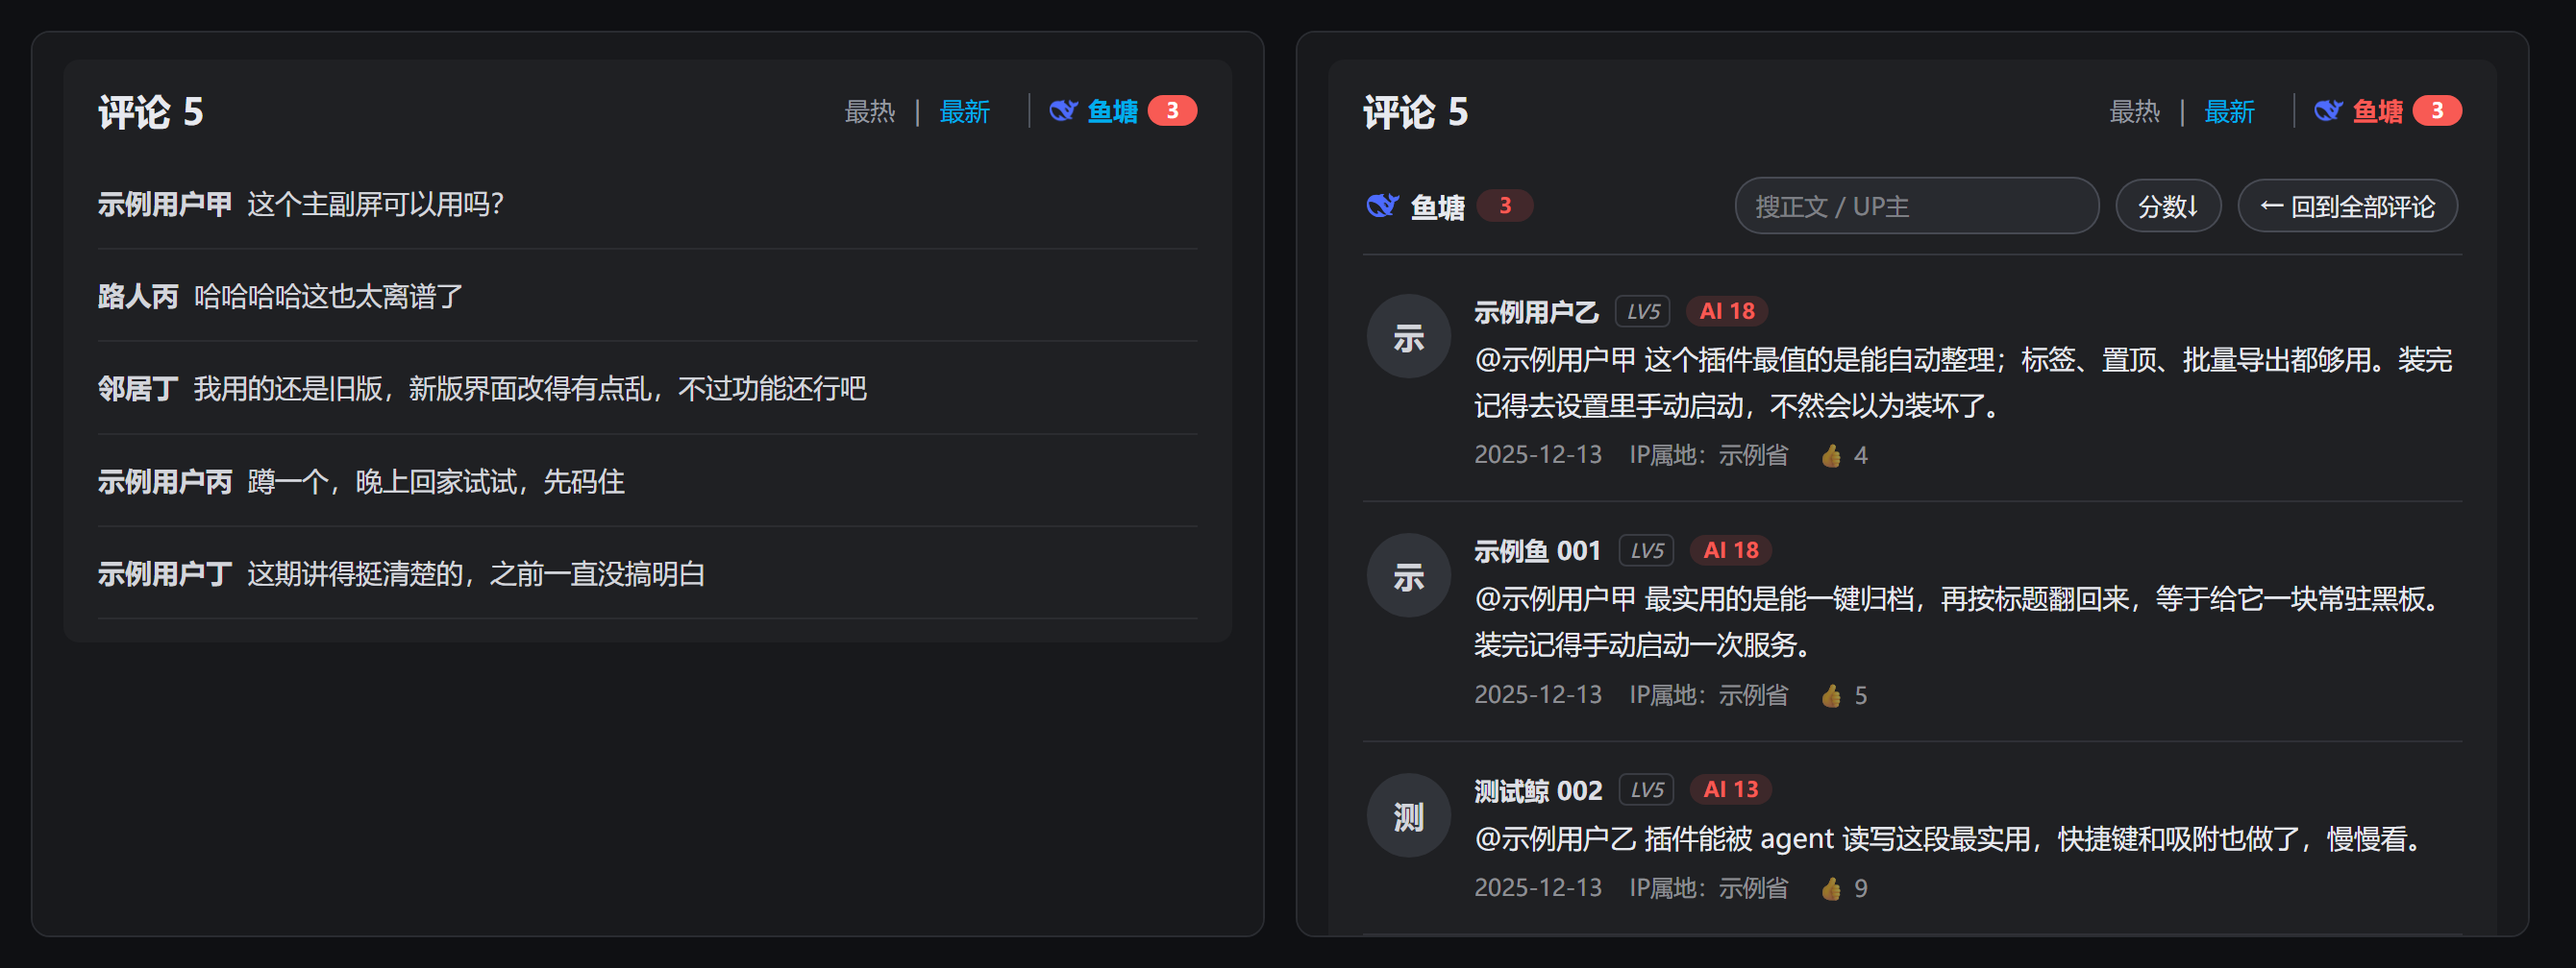
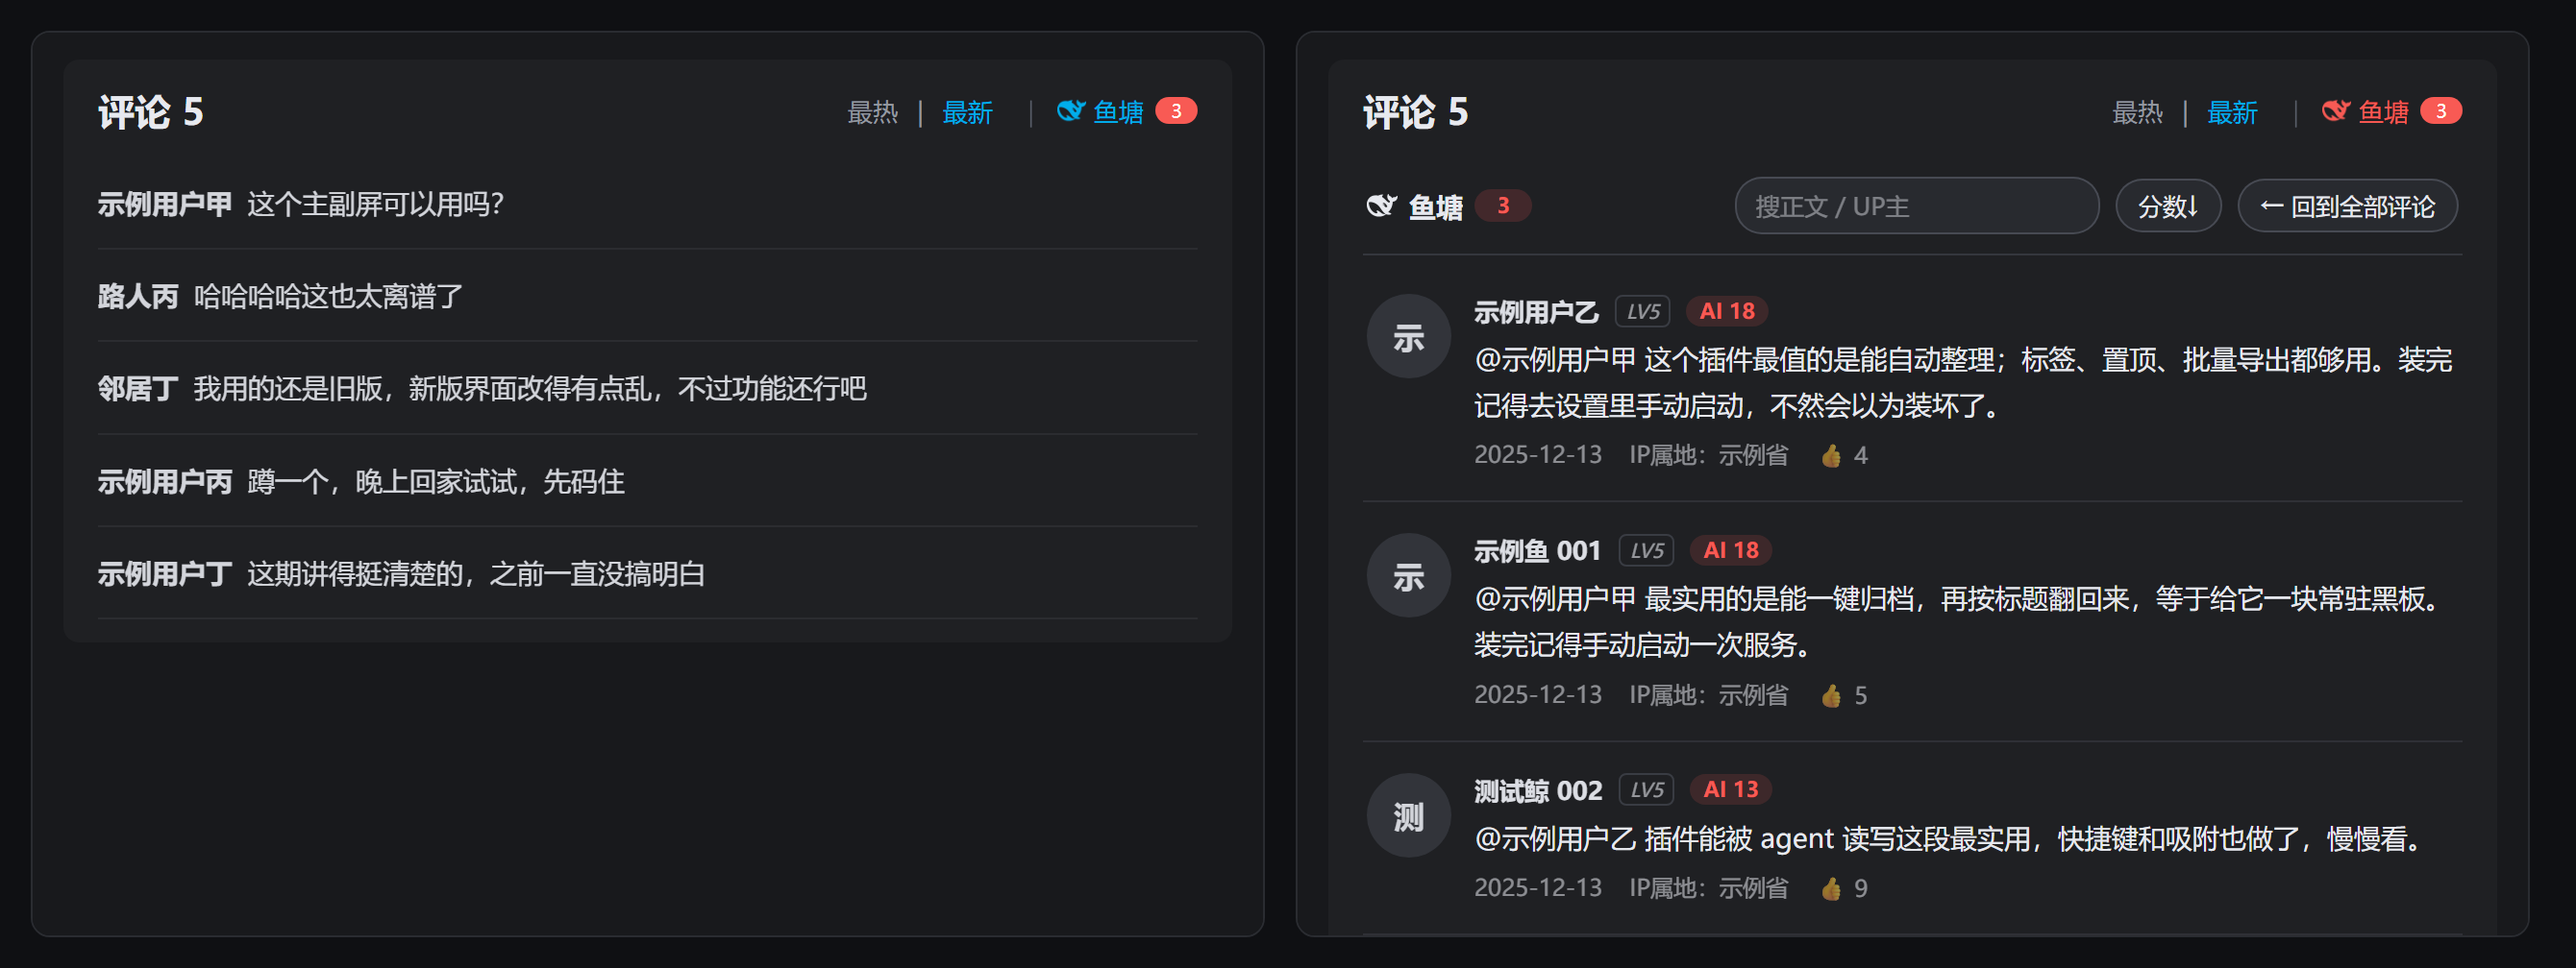
style: 页签排版贴合原站（2.1.5）
- 字号/字重/行高跟随「最热/最新」，不再自加粗
- 分隔符改为原站同款 |
- 图标改 mask 着色，跟站内蓝 #00AEEC 一致
- 徽标缩小；修复 style 属性里双引号截断导致图标不显示

diff --git a/bilibili-fishpond.user.js b/bilibili-fishpond.user.js
@@ -1,7 +1,7 @@
 // ==UserScript==
 // @name            B站鱼塘 · AI评论收集器
 // @namespace       https://github.com/Heidiefu27/bilibili-fishpond
-// @version         2.1.4
+// @version         2.1.5
 // @description     把评论区里“明显AI生成/推广文案”的评论从原评论区收走，集中放进“最热/最新”旁边的【鱼塘】页；就在原评论区位置就地切换，不开浮窗
 // @author          Heidiefu27
 // @homepageURL     https://github.com/Heidiefu27/bilibili-fishpond
@@ -41,7 +41,7 @@
    * 0. 配置
    * ══════════════════════════════════════════════════════════════ */
 
-  const VERSION = '2.1.4';
+  const VERSION = '2.1.5';
   const TAG = '%c[鱼塘]';
   const TAG_CSS = 'color:#00AEEC;font-weight:700';
   const log = (...a) => { try { console.log(TAG, TAG_CSS, ...a); } catch (e) {} };
@@ -62,11 +62,16 @@
 
   // DeepSeek 蓝鲸 logo（内嵌 data URI：脚本不联网也能显示）
[1 lines of base64/hex data omitted]
-  // 内联尺寸：即使影子根里残留旧版样式表（没有 .fp-icon 规则），图标也不会被放成原图大小
+  // 图标用 mask 着色（跟随文字颜色，和原站蓝一致），并内联尺寸：
+  // 影子根里即使残留旧样式表，也不会被放成 64px 原图
   const iconTag = (cls) => {
-    const size = /title/.test(cls || '') ? 17 : 15;
-    return '<img class="fp-icon ' + (cls || '') + '" src="' + ICON + '" alt="" draggable="false"'
-      + ' style="width:' + size + 'px;height:' + size + 'px;display:block;object-fit:contain" />';
+    const size = /title/.test(cls || '') ? 16 : 15;
+    // 注意：外层属性用双引号，这里必须用单引号包 url，否则会把 style 属性截断
+    const mask = "url('" + ICON + "') center / contain no-repeat";
+    return '<span class="fp-icon ' + (cls || '') + '" aria-hidden="true"'
+      + ' style="display:inline-block;width:' + size + 'px;height:' + size + 'px;'
+      + 'background-color:currentColor;'
+      + '-webkit-mask:' + mask + ';mask:' + mask + '"></span>';
   };
 
   const store = {
@@ -600,23 +605,31 @@
 
   // 页签样式：会被插进 bili-comments 的 shadowRoot，单独一份
   const TAB_CSS = `
+  /* 页签：字号/字重/分隔符都对齐原站「最热 | 最新」 */
   .fp-tab {
-    display: inline-flex; align-items: center; gap: 5px;
-    margin: 0 0 0 10px; padding: 0 0 0 10px;
-    border: 0; border-left: 1px solid rgba(148,158,178,.4);
-    background: transparent; cursor: pointer; color: #00AEEC;
-    font-weight: 600; line-height: 1.4; font-family: inherit;
+    display: inline-flex; align-items: center; gap: 4px;
+    margin: 0; padding: 0;
+    border: 0; background: transparent; cursor: pointer;
+    color: #00AEEC; font-family: inherit;
+    font-weight: 400; font-size: inherit; line-height: 1.4;
+    letter-spacing: 0; vertical-align: baseline;
     transition: opacity .15s;
   }
-  .fp-tab:hover { opacity: .78; }
-  .fp-tab-icon { display: inline-flex; align-items: center; }
-  .fp-icon { width: 15px; height: 15px; display: block; object-fit: contain; }
-  .fp-icon-title { width: 17px; height: 17px; }
+  .fp-tab:hover { opacity: .75; }
   .fp-tab.active { color: #F85A54; }
+  .fp-tab-sep {
+    display: inline-block; margin: 0 8px;
+    color: rgba(148,158,178,.55); font-weight: 400;
+    transform: scaleX(.6);
+  }
+  .fp-tab-text { display: inline-block; }
+  .fp-icon { width: 15px; height: 15px; display: inline-block; vertical-align: -2px; }
+  .fp-icon-title { width: 16px; height: 16px; vertical-align: -3px; }
   .fp-tab-count {
-    font-style: normal; font-size: 11px; line-height: 16px;
-    min-width: 16px; padding: 0 5px; border-radius: 9px;
+    font-style: normal; font-size: 10px; line-height: 14px;
+    min-width: 14px; padding: 0 4px; border-radius: 7px;
     background: #F85A54; color: #fff; text-align: center;
+    margin-left: 2px;
   }
   .fp-tab-count.zero { display: none; }
   `;
@@ -1179,16 +1192,20 @@
     const btn = document.createElement('button');
     btn.type = 'button';
     btn.className = 'fp-tab';
-    const fish = document.createElement('span');
-    fish.className = 'fp-tab-icon';
-    fish.innerHTML = iconTag();
+    const sep = document.createElement('span');
+    sep.className = 'fp-tab-sep';
+    sep.textContent = '|';            // 和原站「最热 | 最新」同款分隔符
+    const icon = document.createElement('span');
+    icon.className = 'fp-tab-icon';
+    icon.innerHTML = iconTag();
     const text = document.createElement('span');
+    text.className = 'fp-tab-text';
     text.textContent = '鱼塘';
     const count = document.createElement('i');
     count.className = 'fp-tab-count' + (AI.size ? '' : ' zero');
     count.textContent = AI.size;
     btn.dataset.fpVer = VERSION;   // 版本标记：多个实例并存时用于判定谁该留下
-    btn.append(fish, text, count);
+    btn.append(sep, icon, text, count);
     btn.title = '只看被收走的 AI/推广评论';
     btn.addEventListener('click', (e) => {
       e.preventDefault();
@@ -1256,9 +1273,11 @@
     } catch (e) { warn('插入页签失败', e); return; }
     try {
       const cs = getComputedStyle(anchor);
-      btn.style.fontSize = cs.fontSize;
+      const size = parseFloat(cs.fontSize) || 13;
+      btn.style.fontSize = Math.min(size, 14) + 'px';   // 和「最热 / 最新」同级，不抢戏
       btn.style.fontFamily = cs.fontFamily;
-      if (parseFloat(cs.fontSize) > 18) btn.style.fontSize = '14px';
+      btn.style.fontWeight = cs.fontWeight;
+      btn.style.lineHeight = cs.lineHeight;
     } catch (e) {}
     tabEl = btn;
     dedupeTabs(btn);

diff --git a/CHANGELOG.md b/CHANGELOG.md
@@ -1,5 +1,13 @@
 # 更新日志
 
+## [2.1.5] — 页签排版贴合原站
+
+- 字号/字重/行高跟随原站「最热 / 最新」（上限 14px，字重取锚点计算值，不再自己加粗）
+- 分隔符改成与原站同款的 `|`（而不是 CSS 左边框）
+- 图标改用 **mask 着色**：颜色取 `currentColor`，跟「最新 / 鱼塘」同一个蓝（`#00AEEC`），不再是偏紫的 DeepSeek 蓝
+- 徽标缩小到 10px/14px 高，贴近原站小红点比例
+- 修复：`style="..."` 里嵌 `url("...")` 双引号把属性截断导致图标不显示
+
 ## [2.1.4] — 图标尺寸内联 + 样式表按版本替换
 
 - 图标改为**内联尺寸**（`style="width:15px;height:15px"`）：旧实例残留在影子根里的旧样式表不再导致图标被放成 64px 原图
